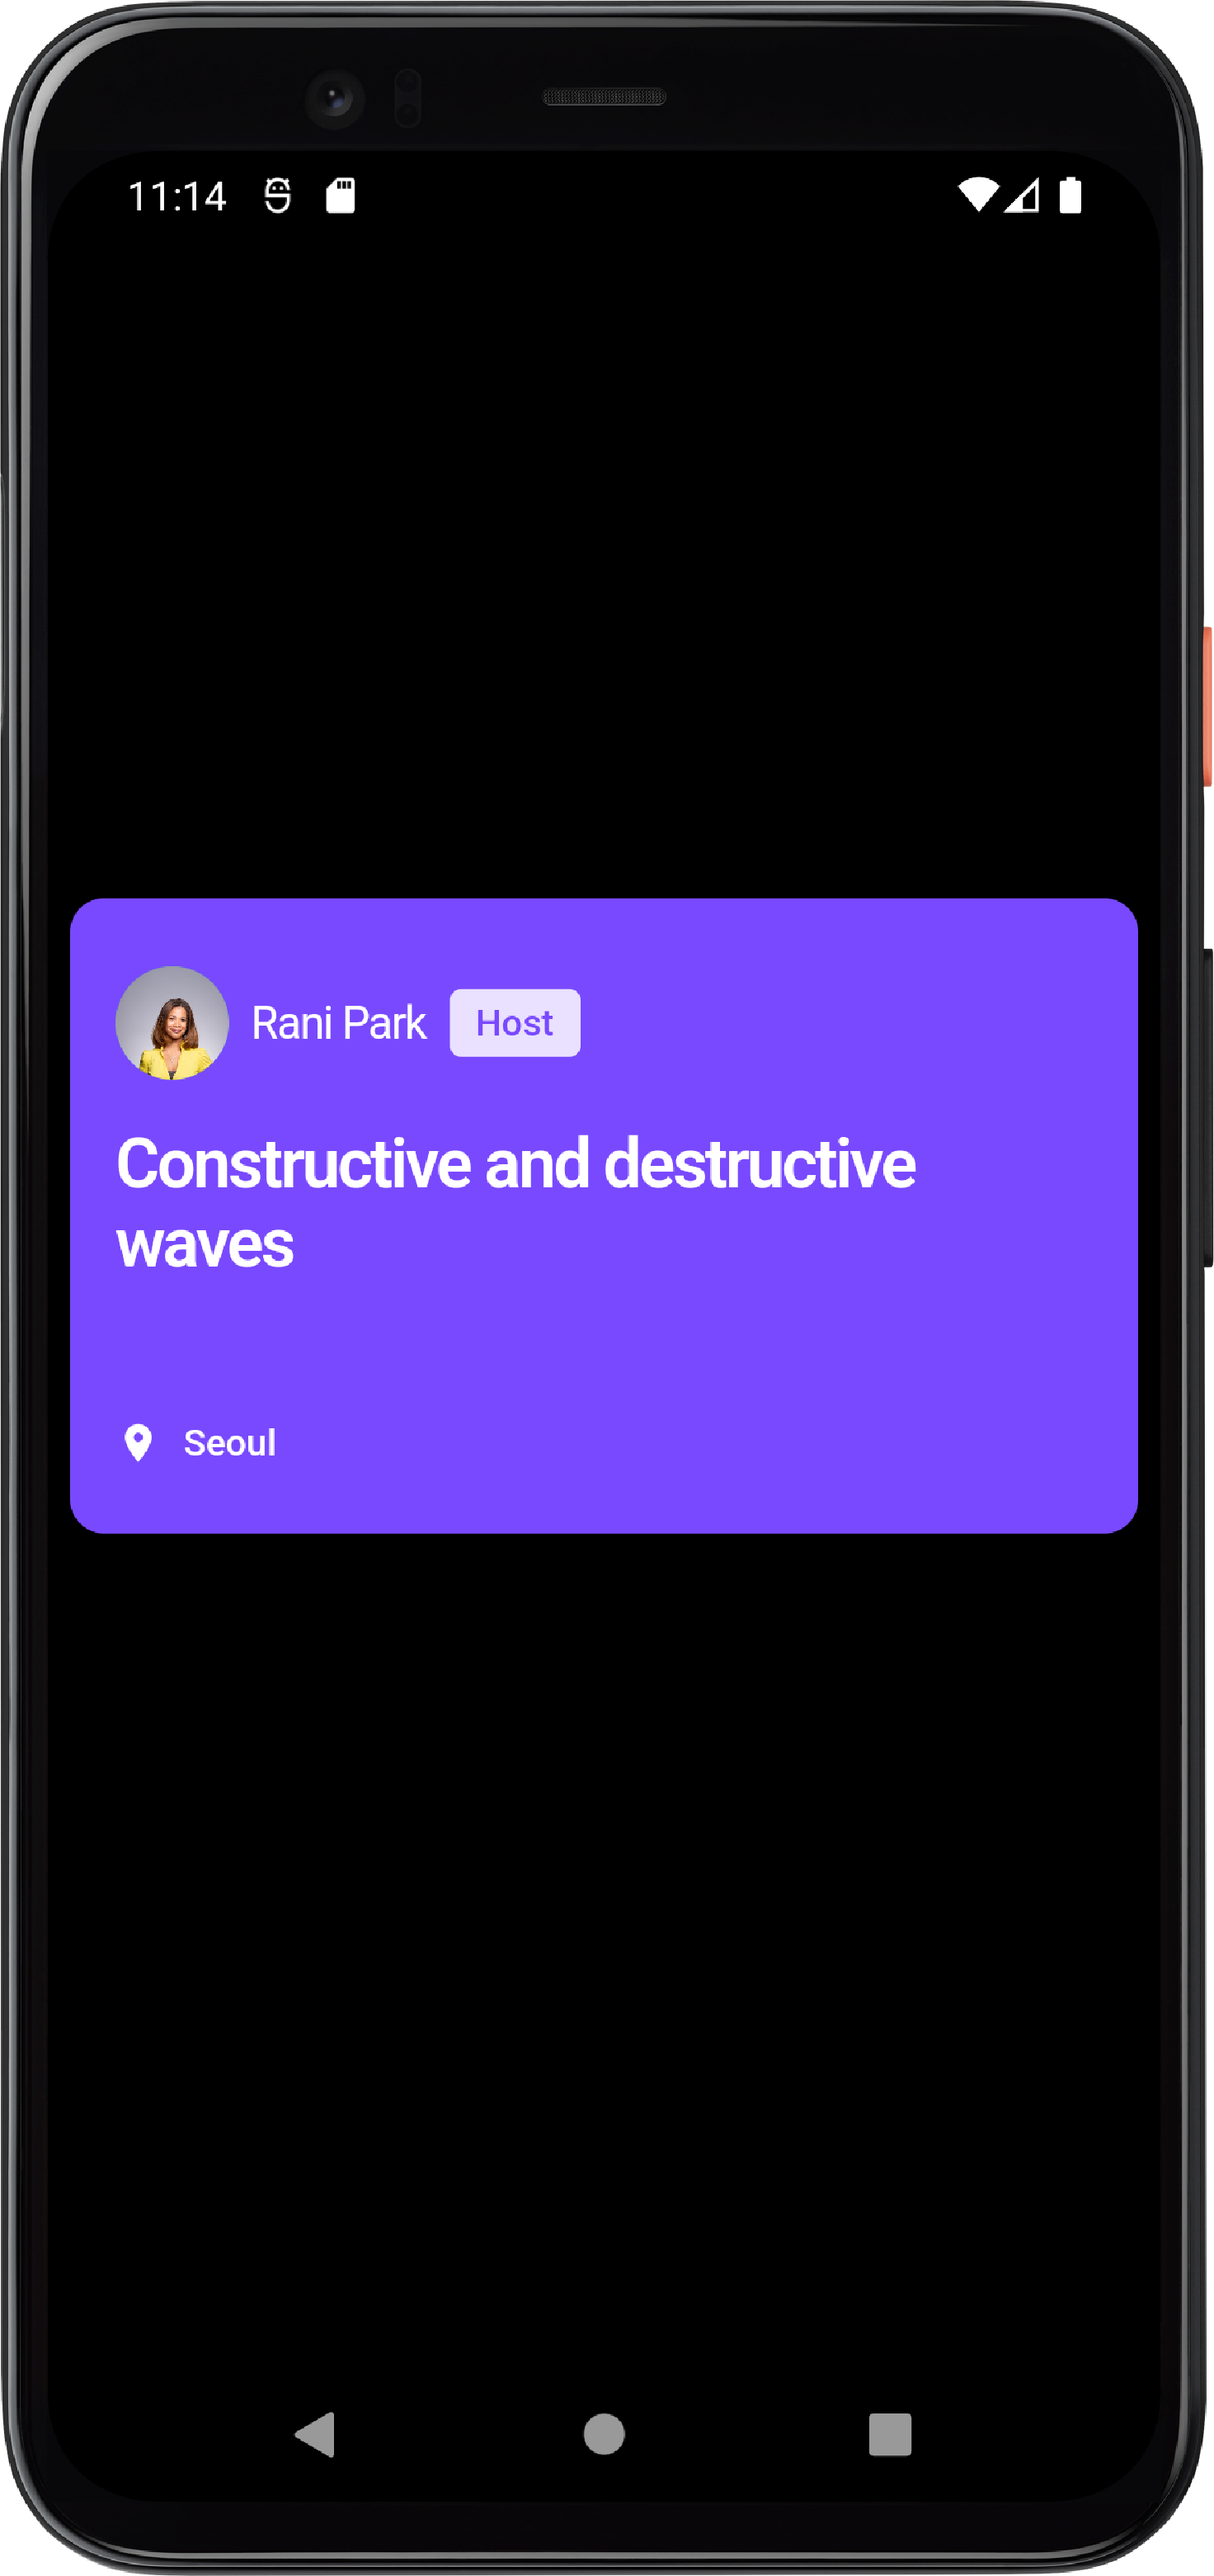
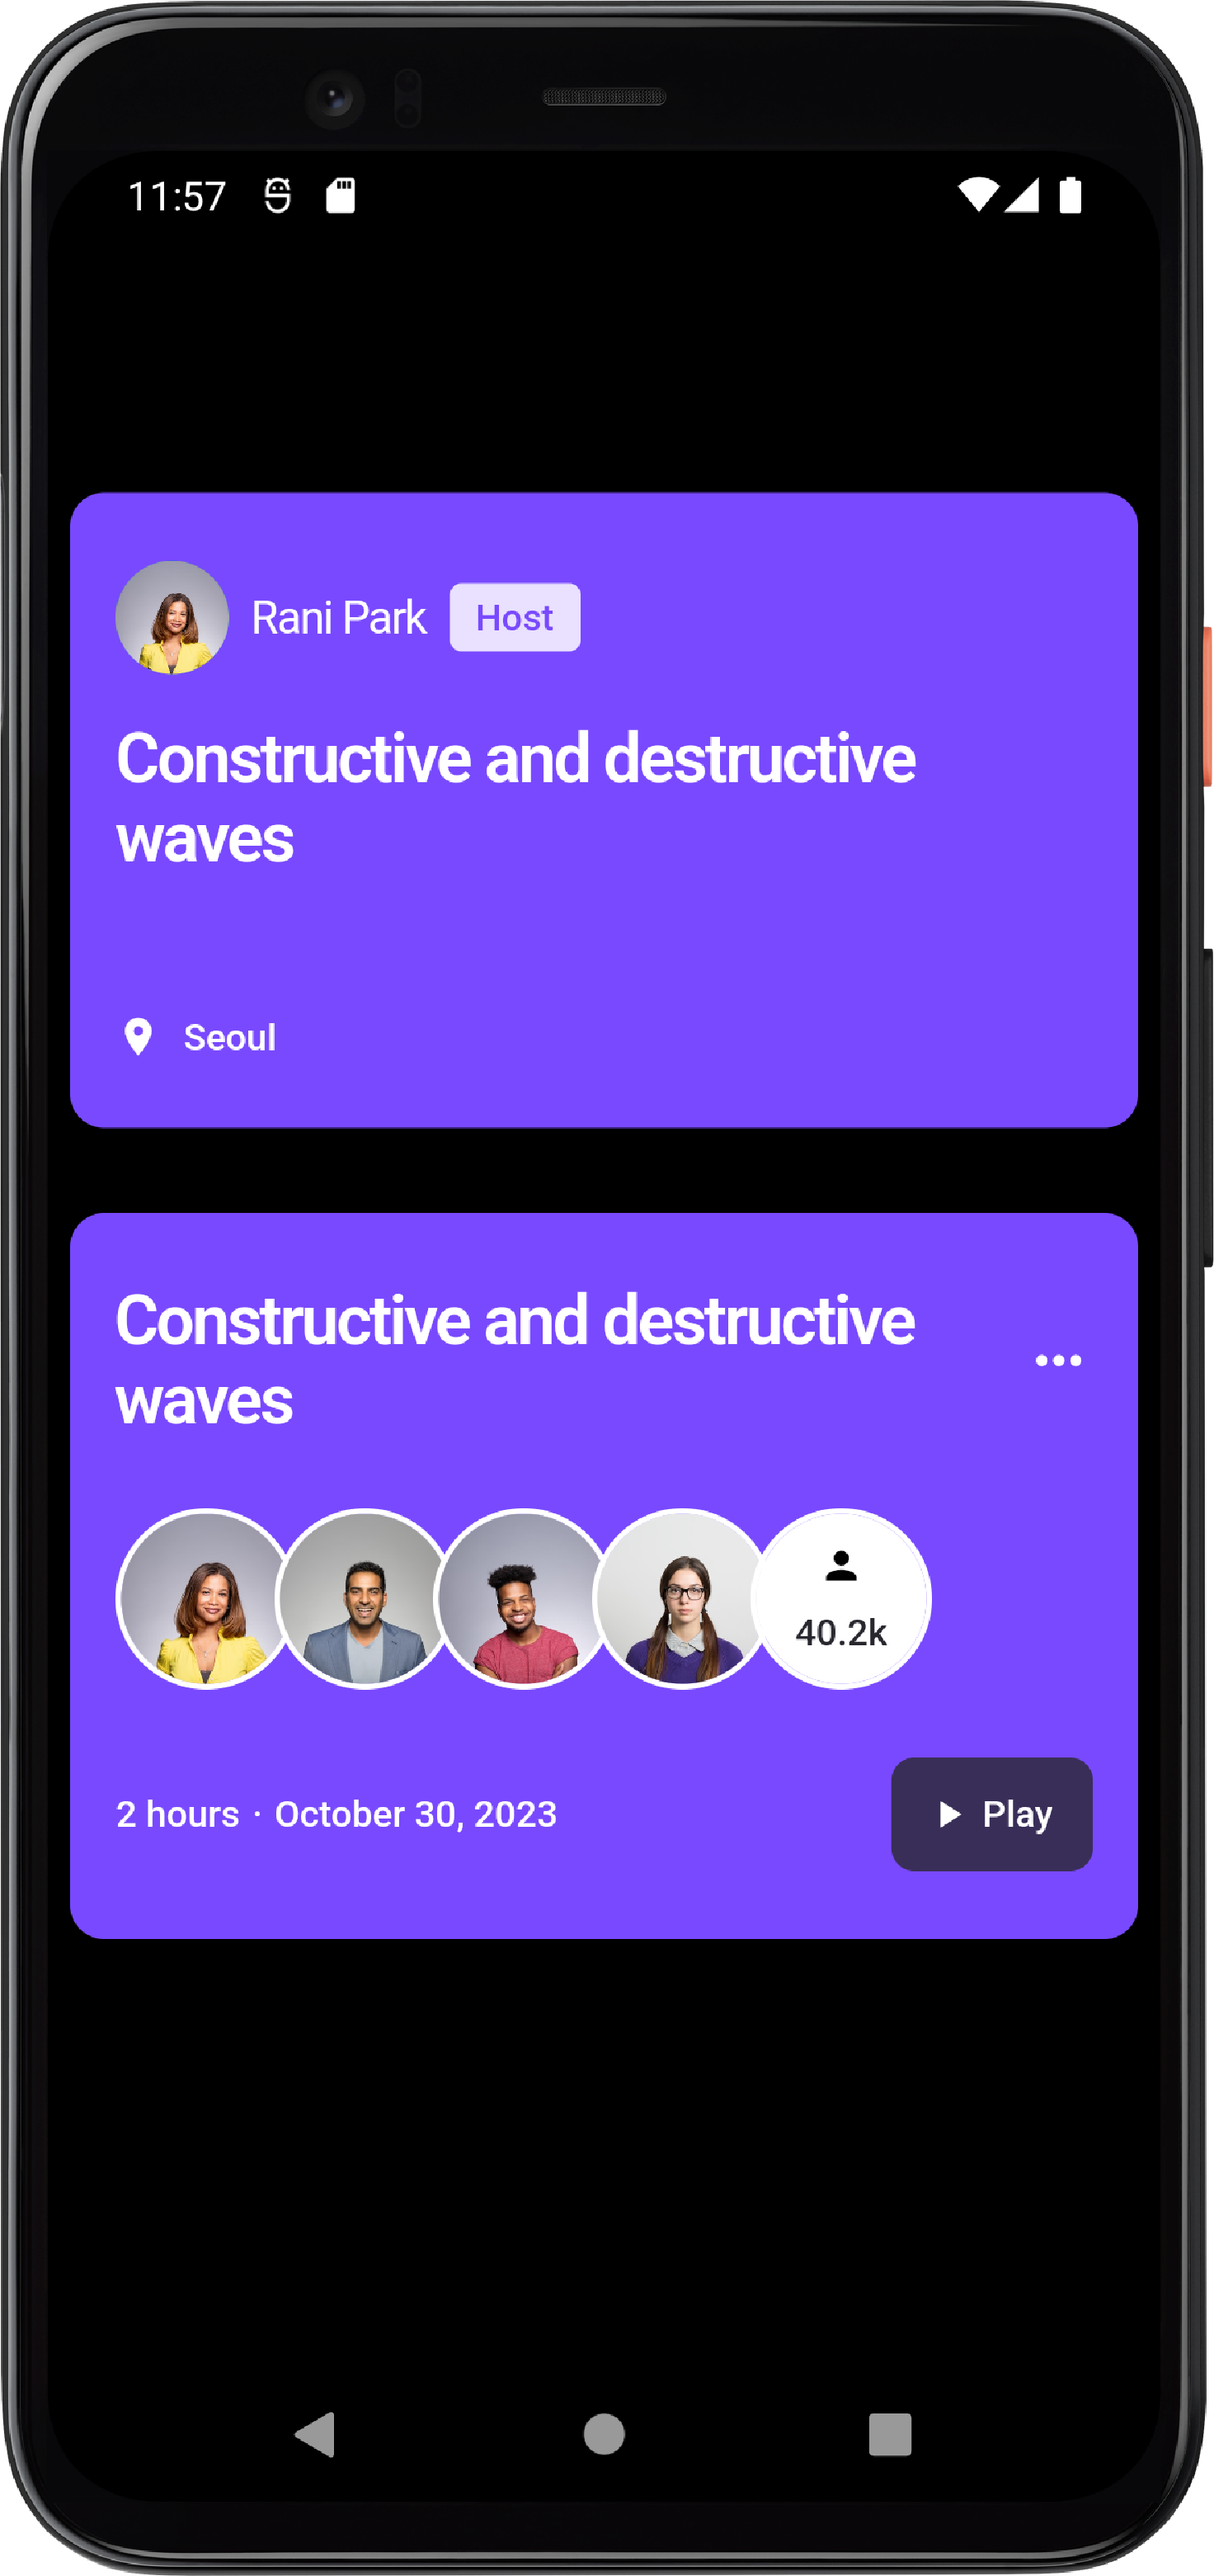
add Card 10

diff --git a/lib/Cards/card_26.dart b/lib/Cards/card_26.dart
@@ -1,0 +1,166 @@
+import 'package:flutter/material.dart';
+import 'package:gap/gap.dart';
+class Card26 extends StatelessWidget {
+  const Card26({Key? key}) : super(key: key);
+
+  @override
+  Widget build(BuildContext context) {
+    final items = ["https://s3-alpha-sig.figma.com/img/a93d/910f/39c4a4eac9b5c1d9bf79c3ce707b40e9?Expires=1704067200&Signature=RHbY~WhG0mZVXTvQkaMd6u1JSc6wwoKPZC7uCKmv1N9GoC5SJ3jd6gm6MOOF2BtYr0A4C0puDP9AIuQEKfDFtPPt-wVEK0-2-JQ7VPR8N4VRmPt56kZRCkJCg7TlMO8zFReuk3sUs5uIhZ1wx3fJjE-Ik2o0oIEFMxX~Q22Q9Bgdwda3mhaLpxJVRoY-sytbFjXfz9okc2b4E5ld2x3Iym5i1Cw9MdKA33-H1TqETstPiXBw1Y9yreoVouGl5zs4wdV1WDP0nhS7GPTJvjLuqbEst6zsdgagxz7FzsHq5lKFsp0d49KU6qEBUBZ95Xup~d1GBMBRLw-9YQenqA7Q2g__&Key-Pair-Id=APKAQ4GOSFWCVNEHN3O4",
+      "https://s3-alpha-sig.figma.com/img/9532/ab14/6bf713cc33aba2ea1e125d769575bff1?Expires=1704067200&Signature=j1YXRdZnWkUygDjWklJY3AxL1HzY~V-rYXWH2o1Vhw8TusYtGzfxoAzf8Znaq1wsv2QMQWoSSITBsXEGyzqvPxN6Nx23pg13OxF9-d56E3Bo4~EmC9LPmAQuCAl1rYLsGn1amIglhjpPaBthOoIsEPGeiuePXsOEO~lfamVeeY7WjUQ4HNz7vUMQ~t~gHMe0Uc0zLVGgHNXaifH0jeLWRR0yB2soWuK57FSYybOIrcpSJrgJnSjxPaM7h92hf5cWkXhZ04X9iLXQg40iaYEhp0H7ci~HY0AyTEr9IW1oRTw4OSSMCRfaNfELY76xkQ7jBl3lHVh72d3nMU0DRsgDEQ__&Key-Pair-Id=APKAQ4GOSFWCVNEHN3O4",
+      "https://s3-alpha-sig.figma.com/img/e8db/de05/50b3bfe35aebb0a11dc0ce0fe6b4d7b3?Expires=1704067200&Signature=KAESymSs473loo0U8pudQfE-cAXqQ54RsWQlH95EZdgETb1k-l97v-FO0IZb9YFdkqvaecgxR4fWBENW2pzsE-SAgfiyokQmQpZTUGZBQyTgjL5TXd~Uv7-ReJ-fbW0ao9T3nHt7N41t2YWOyDB8A~0ad8o3fz5cdLKQiwLQ6cWfs-GHwQJucAYpCbKxu-8RgT9IkstSD9w81eg8Aw2LlOqgdkb39vFsA1pr024k31SG79Ei5KHNDImrylcRm8-uJURwPR1GFJfofFboxXYzZioXIRCI321Zo5Id~uqicMZACGiAyQ6RUxJcp7e6imUlNq1bIAe4UNrSZkwQdT7WQA__&Key-Pair-Id=APKAQ4GOSFWCVNEHN3O4",
+      "https://s3-alpha-sig.figma.com/img/d399/27cb/3c34feb52050b33a75e4556cbd74500c?Expires=1704067200&Signature=MVy2I~mElynYKkbCwaldjxO0YH-BJS4I6r~LnfXD9~j8dlItPg8zjOTMKKlVbC8-tM5Ixz~vlnP3gzgFHn8aZorV8DKINT-aHZOlx~uuu2Xct-rH1dvr2ow0qxETZzE0~Vs~sQXCMjWXBPHSmhjXV0Wr~6FPrZS9SF8HV9kLBLtbU7zMotKtciqQGYFfF7dKPRtNjbfQjxMYFIxnnHcQK0C1ouke6bLQoMzRRc2ZT4vu~aV9kBx3OzxHqdD9D2HDKe9HMbjDImER52FbwmihiOcGpN1Qxqm3WqbXXGq0KwlFh1V7Sxd~Q8bAOmjMHvn2p4WfZbdeaNguuNwMwQduig__&Key-Pair-Id=APKAQ4GOSFWCVNEHN3O4",
+      "40.2k"
+    ];
+    
+    final allItems = items.map((e) => CircleAvatar(
+      backgroundImage:items.indexOf(e)==4?null: NetworkImage(e),
+      backgroundColor: Colors.white,
+      child:items.indexOf(e)!=4?null: Column(
+
+        mainAxisAlignment: MainAxisAlignment.center,
+        children: [
+
+          const Icon(Icons.person, color: Colors.black, size: 16,),
+          const Gap(8),
+          Text(
+            e,
+            textAlign: TextAlign.center,
+            style: const TextStyle(
+              color: Color(0xFF29272E),
+              fontSize: 13,
+              fontFamily: 'Inter',
+              fontWeight: FontWeight.w500,
+              height: 0,
+            ),
+          )
+        ],
+      )
+      ,)).toList().asMap().map((key, value){
+    final left= 56*key;
+    final valeur= Padding(
+      padding:  EdgeInsets.only(left: left.toDouble()),
+      child: Container(
+        width: 64,
+        height: 64,
+
+        decoration: BoxDecoration(
+          border: Border.all(color: Colors.white, width: 2),
+          shape: BoxShape.circle
+        ),
+        child: value,
+      ),
+    );
+
+    return MapEntry(key, valeur);
+
+    }).values.toList();
+    return Container(
+      height: 256,
+      width: double.infinity,
+      padding: const EdgeInsets.symmetric(horizontal: 16, vertical: 24),
+      decoration: BoxDecoration(
+          color: const Color(0xFF7949FF),
+          borderRadius: BorderRadius.circular(12)
+      ),
+      child: Column(
+        crossAxisAlignment: CrossAxisAlignment.start,
+        children: [
+          const Row(
+            children: [
+              Expanded(child: Text(
+                'Constructive and destructive waves',
+                style: TextStyle(
+                  color: Colors.white,
+                  fontSize: 24,
+                  fontFamily: 'Inter',
+                  fontWeight: FontWeight.w600,
+                  height: 0,
+                  letterSpacing: -0.96,
+                ),
+              )),
+              Gap(16),
+              Icon(Icons.more_horiz, color: Colors.white, size: 24,)
+            ],
+          ),
+          const Gap(24),
+         Stack(
+           children: allItems,
+         ),
+          const Gap(24),
+          Row(
+            mainAxisAlignment: MainAxisAlignment.spaceBetween,
+            children: [
+              const Row(
+                children: [
+                  Text(
+                    '2 hours',
+                    textAlign: TextAlign.center,
+                    style: TextStyle(
+                      color: Colors.white,
+                      fontSize: 13,
+                      fontFamily: 'Inter',
+                      fontWeight: FontWeight.w500,
+                      height: 0,
+                    ),
+                  ),
+                  Gap(4),
+                  Text(
+                    '·',
+                    textAlign: TextAlign.center,
+                    style: TextStyle(
+                      color: Colors.white,
+                      fontSize: 13,
+                      fontFamily: 'Inter',
+                      fontWeight: FontWeight.w500,
+                      height: 0,
+                    ),
+                  ),
+                  Gap(4),
+                  Text(
+                    'October 30, 2023',
+                    textAlign: TextAlign.center,
+                    style: TextStyle(
+                      color: Colors.white,
+                      fontSize: 13,
+                      fontFamily: 'Inter',
+                      fontWeight: FontWeight.w500,
+                      height: 0,
+                    ),
+                  )
+                ],
+              ),
+              Container(
+                width: 71,
+                height: 40,
+                padding: const EdgeInsets.all(12),
+                decoration: ShapeDecoration(
+                  color: const Color(0xCC29272E),
+                  shape: RoundedRectangleBorder(borderRadius: BorderRadius.circular(8)),
+                ),
+                child: const Row(
+                  mainAxisSize: MainAxisSize.min,
+                  mainAxisAlignment: MainAxisAlignment.start,
+                  crossAxisAlignment: CrossAxisAlignment.center,
+                  children: [
+                   Icon(Icons.play_arrow, color: Colors.white, size: 16,),
+                    Gap(4),
+                    Text(
+                      'Play',
+                      style: TextStyle(
+                        color: Colors.white,
+                        fontSize: 13,
+                        fontFamily: 'Inter',
+                        fontWeight: FontWeight.w500,
+                        height: 0,
+                      ),
+                    ),
+                  ],
+                ),
+              )
+            ],
+          )
+        ],
+      ),
+    );
+  }
+}

diff --git a/lib/Screens/view_10.dart b/lib/Screens/view_10.dart
@@ -1,5 +1,6 @@
 import 'package:flutter/material.dart';
 import 'package:flutter_ui_card_collections/Cards/card_25.dart';
+import 'package:flutter_ui_card_collections/Cards/card_26.dart';
 import 'package:gap/gap.dart';
 class View10 extends StatelessWidget {
   const View10({Key? key}) : super(key: key);
@@ -14,6 +15,8 @@ class View10 extends StatelessWidget {
           mainAxisAlignment: MainAxisAlignment.center,
           children: [
             Card25(),
+            Gap(30),
+            Card26(),
             Gap(30),
 
 
